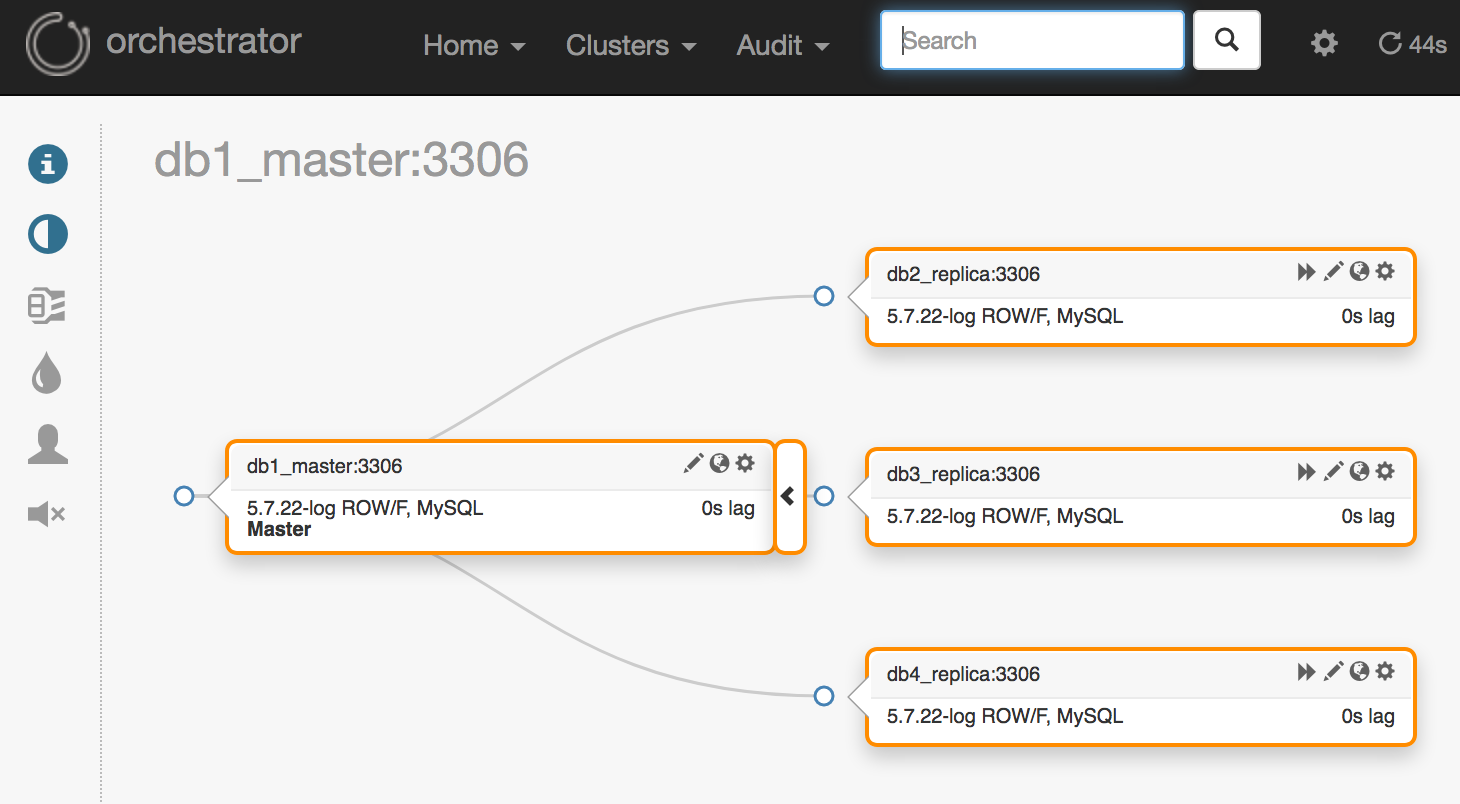
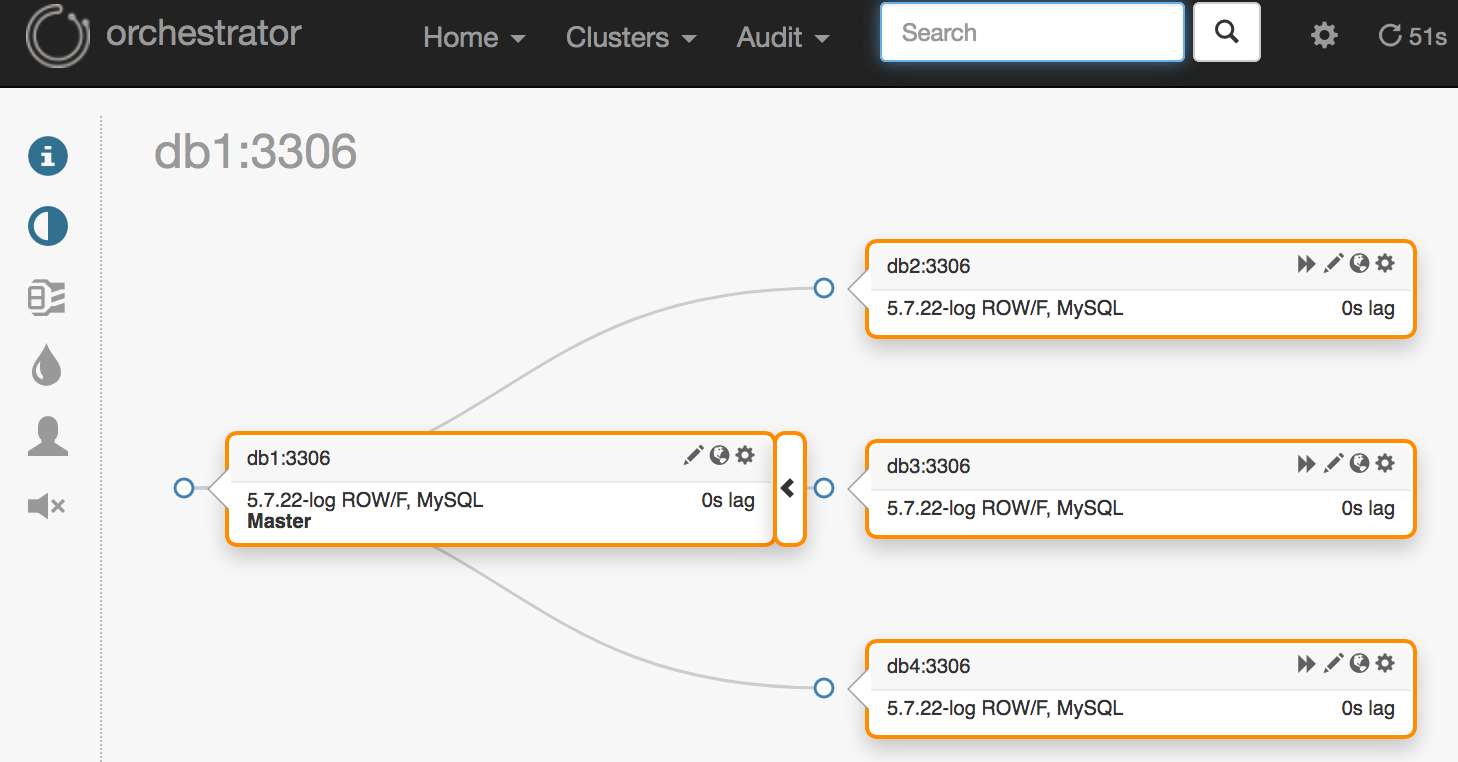
Update README

diff --git a/README.md b/README.md
@@ -8,10 +8,11 @@ This will bring up one MySQL master and three replicas
 along side three orchestrator nodes in HA (Raft)
 
 ```
-db1_master:3306    [0s,ok,5.7.22-log,rw,ROW,P-GTID]
-+ db2_replica:3306 [0s,ok,5.7.22-log,rw,ROW,>>,P-GTID]
-+ db3_replica:3306 [0s,ok,5.7.22-log,rw,ROW,>>,P-GTID]
-+ db4_replica:3306 [0s,ok,5.7.22-log,rw,ROW,>>,P-GTID]
+$ docker-compose exec orchestrator1 resources/bin/orchestrator-client -c topology --alias db1
+db1:3306   [0s,ok,5.7.22-log,rw,ROW,P-GTID]
++ db2:3306 [0s,ok,5.7.22-log,rw,ROW,>>,P-GTID]
++ db3:3306 [0s,ok,5.7.22-log,rw,ROW,>>,P-GTID]
++ db4:3306 [0s,ok,5.7.22-log,rw,ROW,>>,P-GTID]
 ```
 
 ![Orchestrator on Raft screenshot](assets/orchestrator_raft_screenshot.png)
